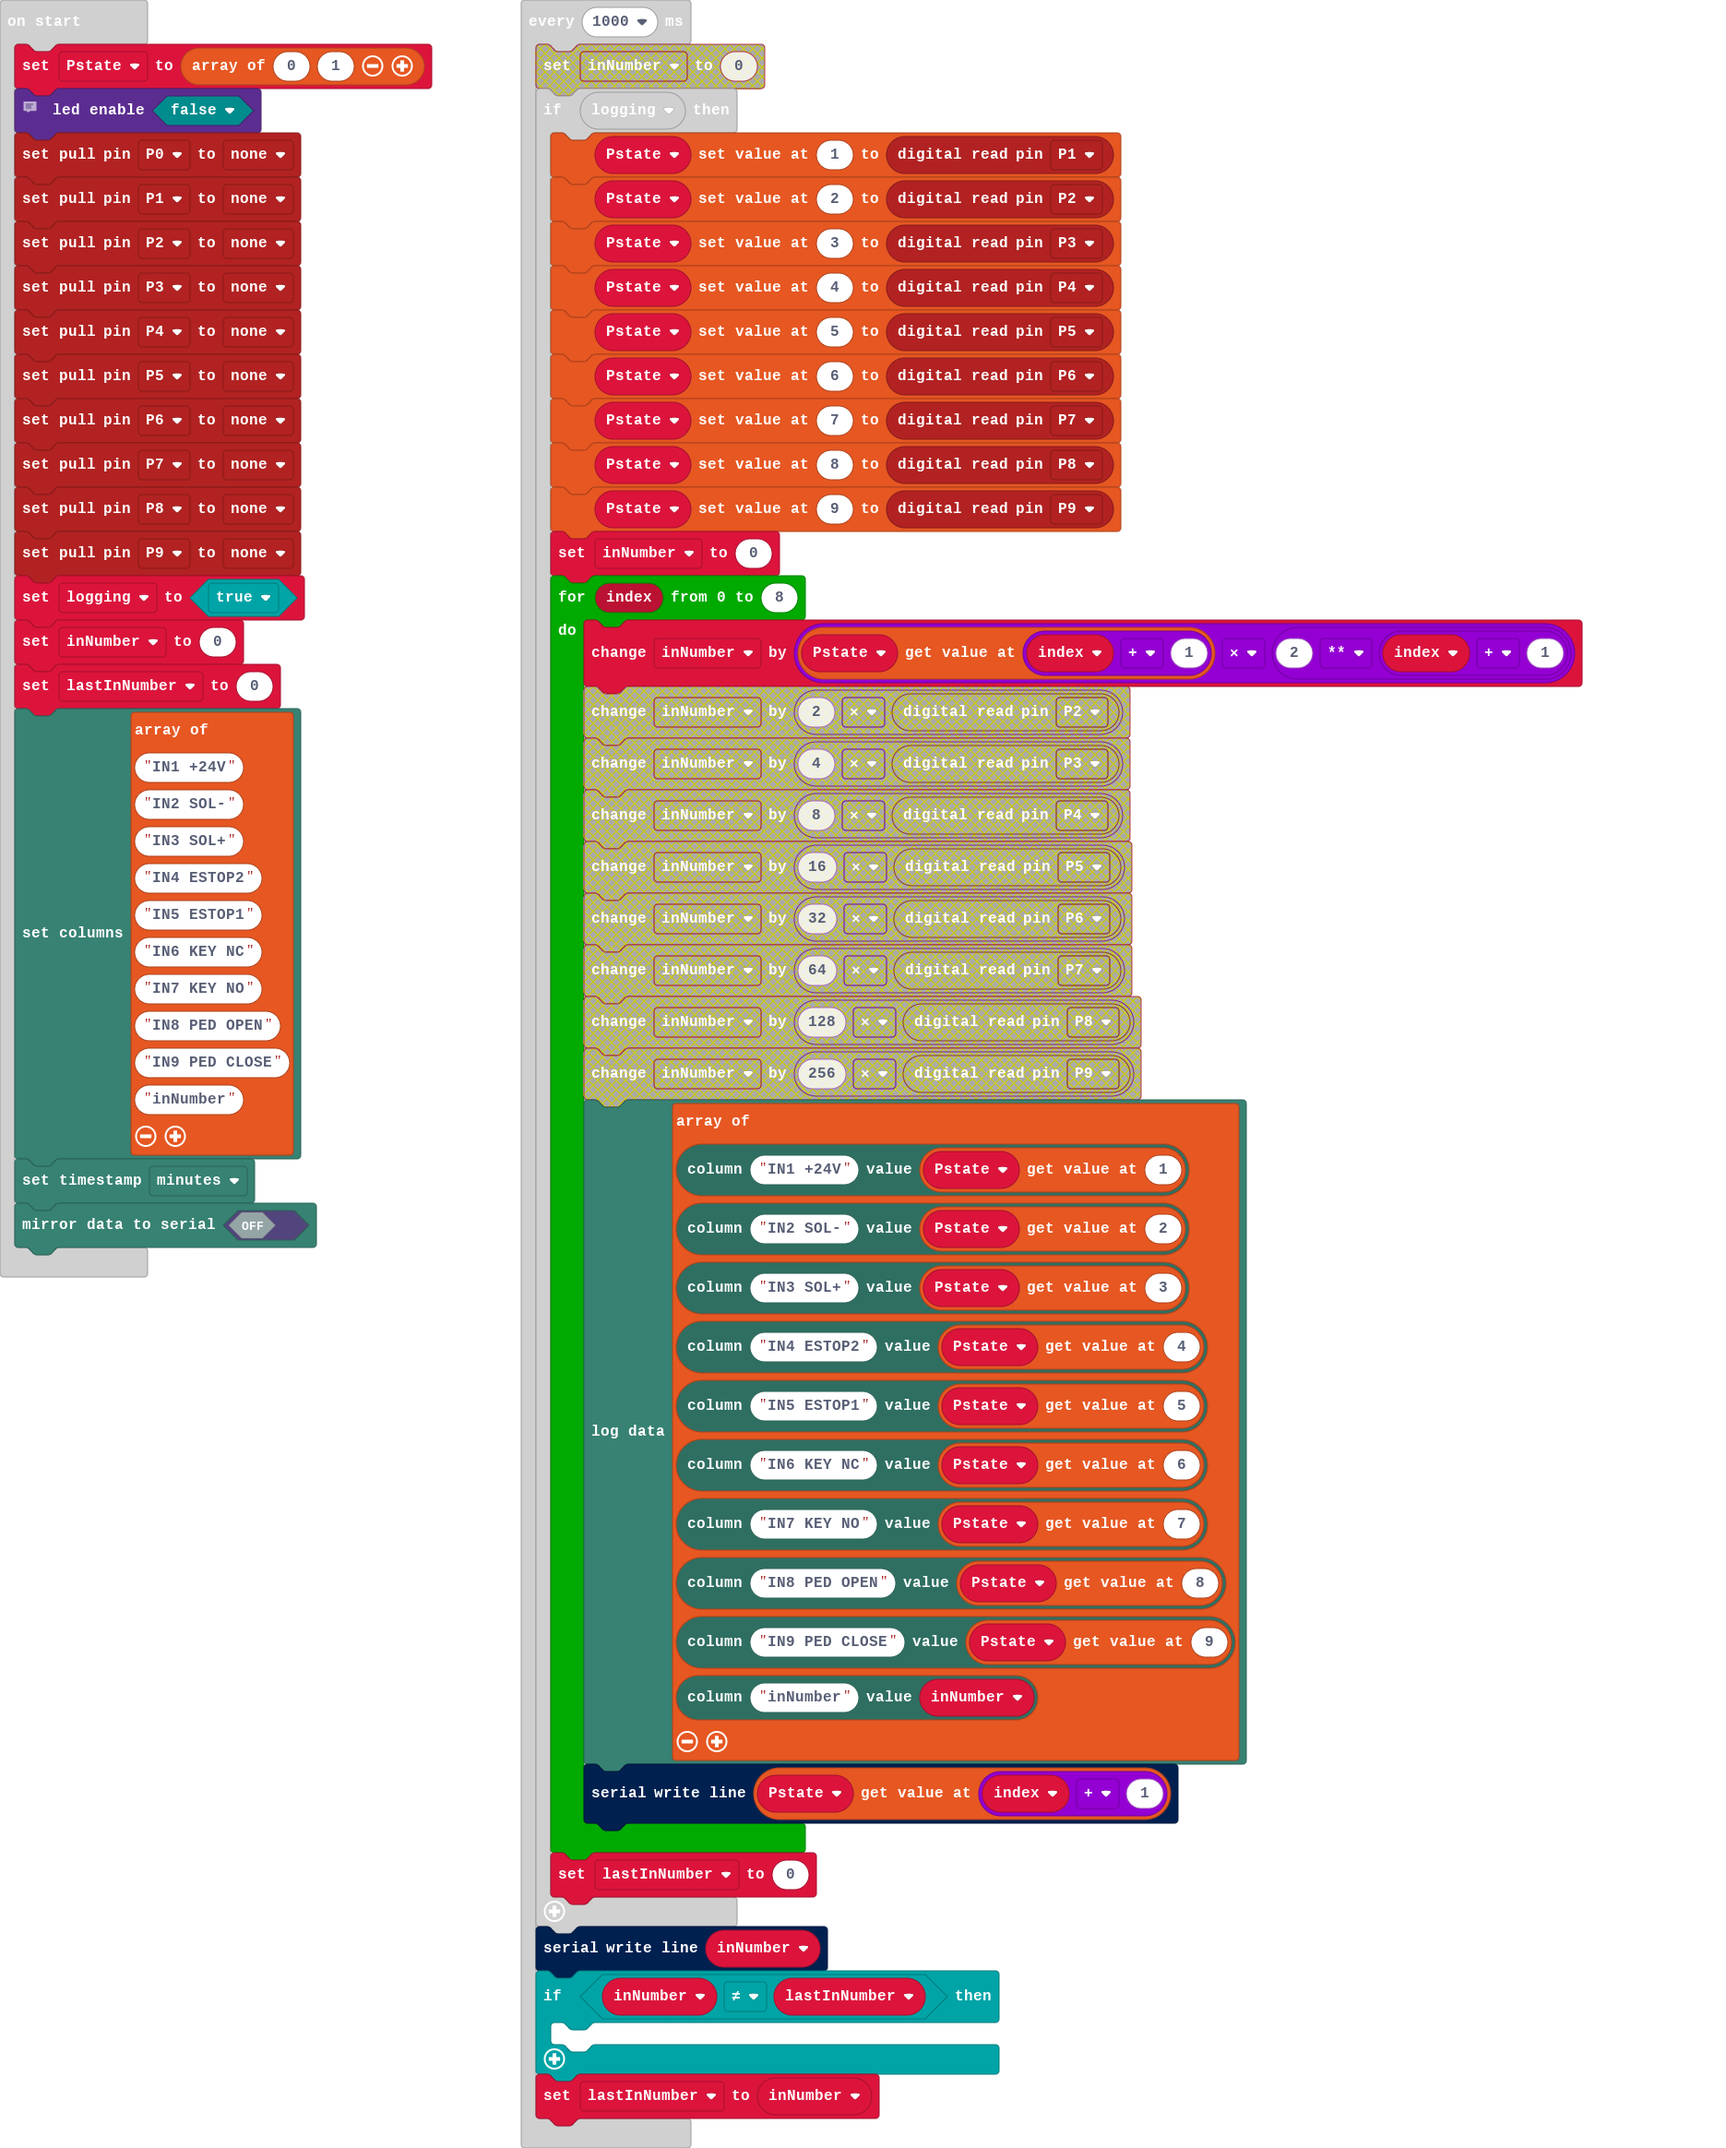
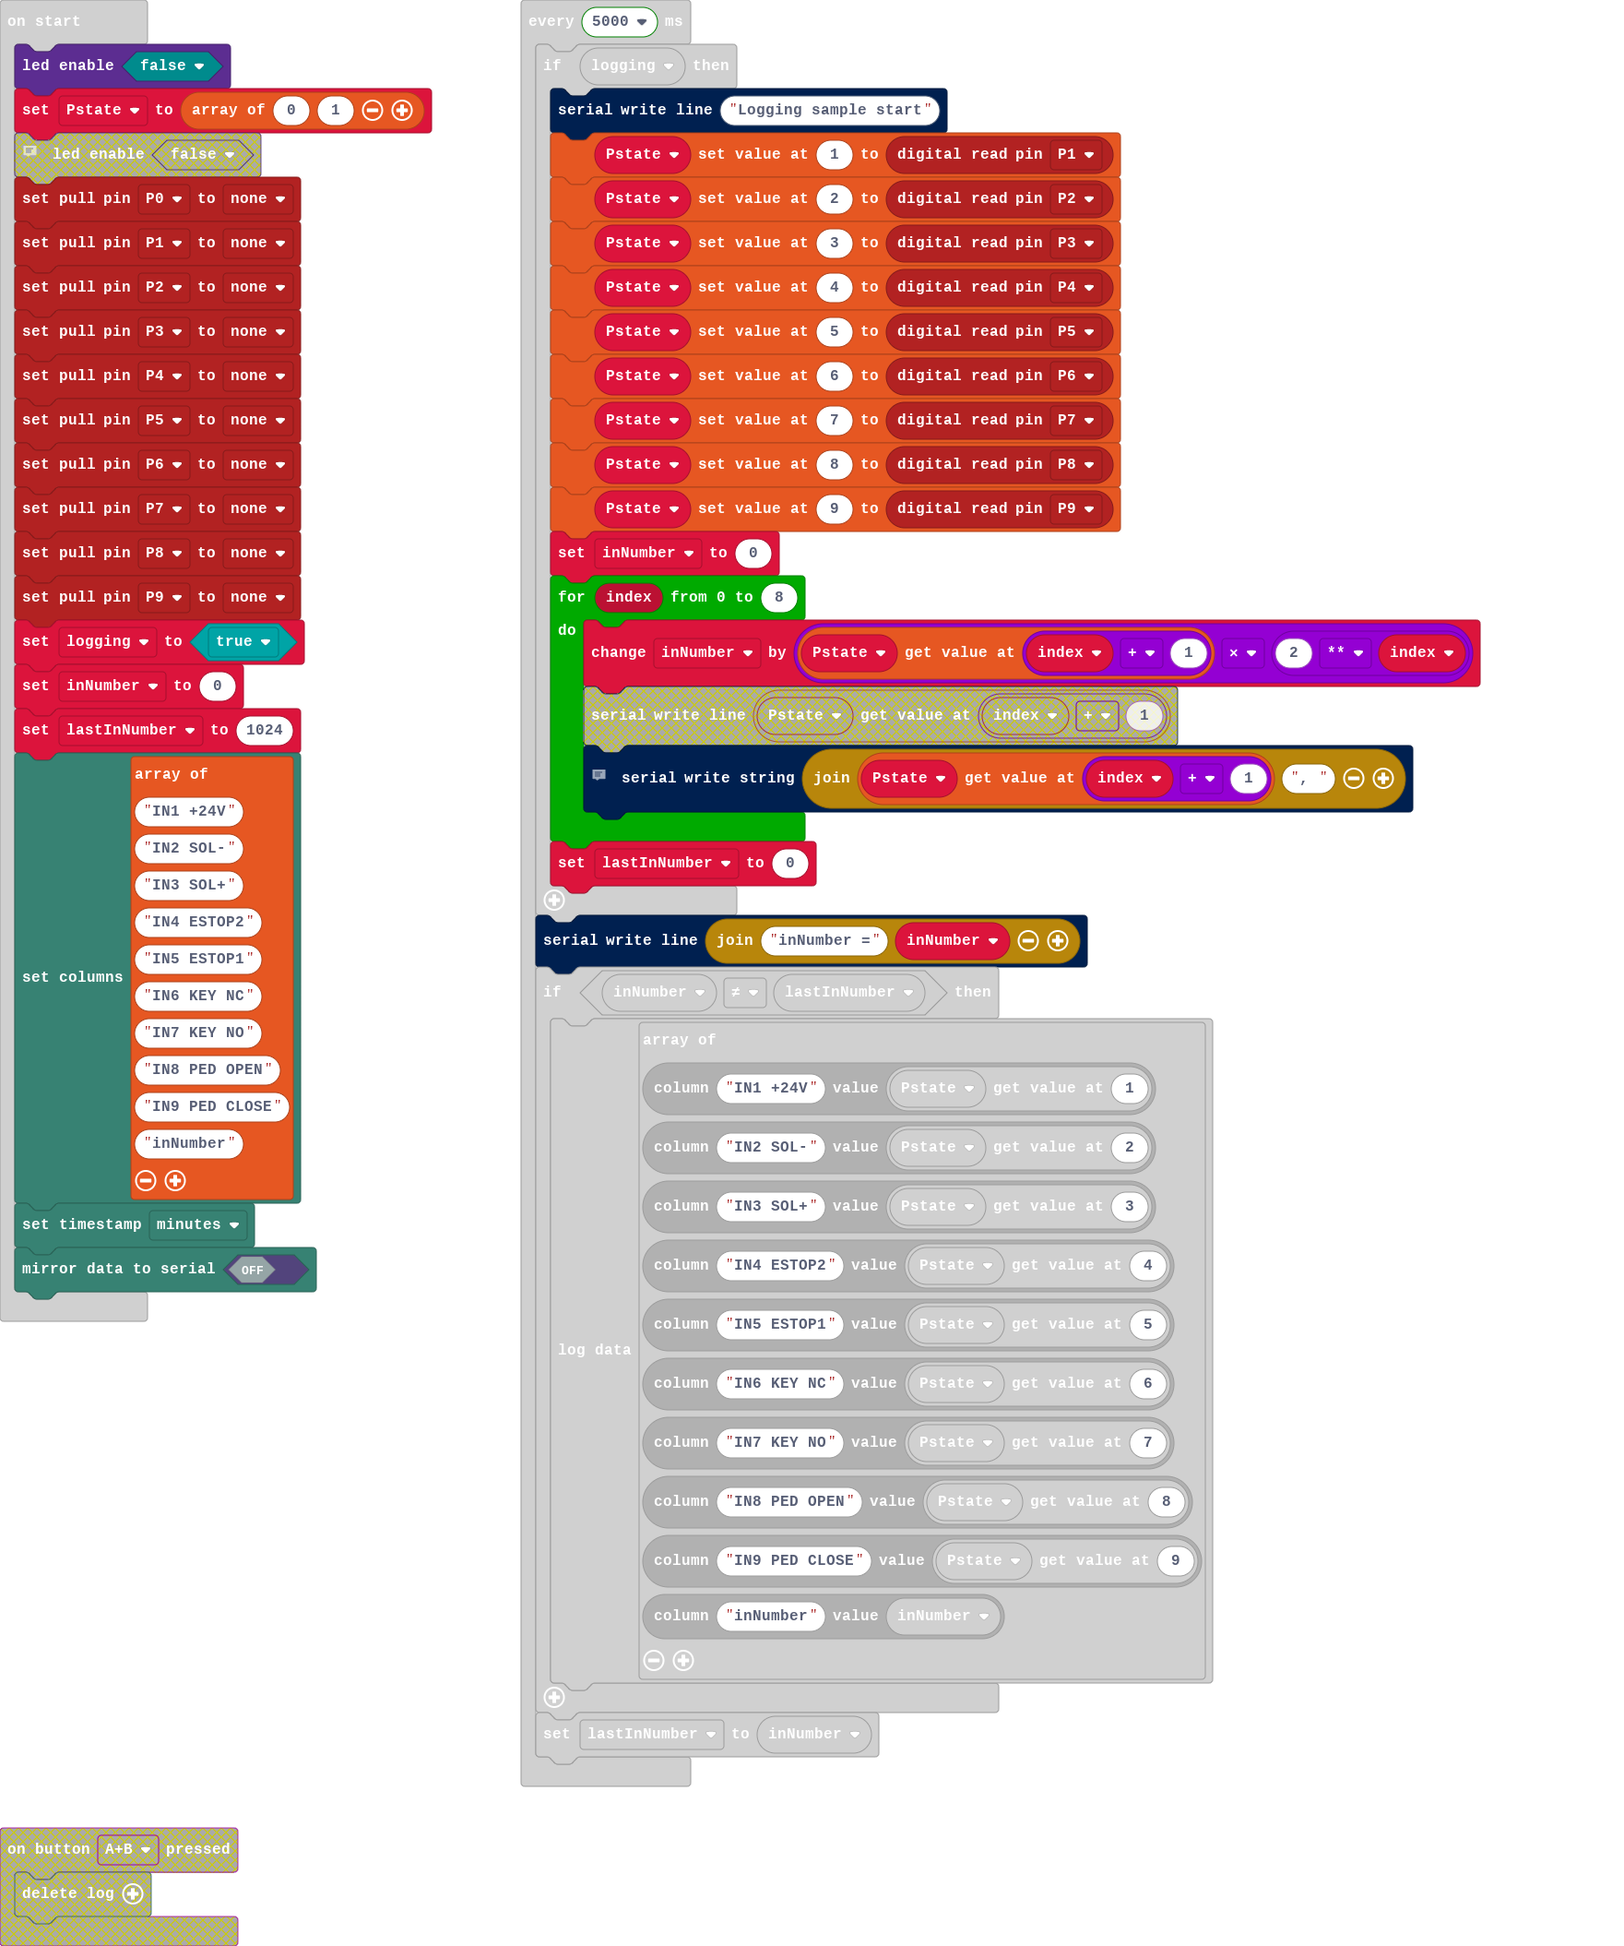
decoding works, can't use buttons though

diff --git a/main.ts b/main.ts
@@ -1,13 +1,9 @@
 datalogger.onLogFull(function () {
     logging = false
 })
-input.onButtonPressed(Button.AB, function () {
-    datalogger.deleteLog()
-})
 let logging = false
-let Pstate = [0, 1]
-// Important! display must be disabled to use P3, 4, 6 7 as digital inputs!
 led.enable(false)
+let Pstate = [0, 1]
 pins.setPull(DigitalPin.P0, PinPullMode.PullNone)
 pins.setPull(DigitalPin.P1, PinPullMode.PullNone)
 pins.setPull(DigitalPin.P2, PinPullMode.PullNone)
@@ -20,7 +16,7 @@ pins.setPull(DigitalPin.P8, PinPullMode.PullNone)
 pins.setPull(DigitalPin.P9, PinPullMode.PullNone)
 logging = true
 let inNumber = 0
-let lastInNumber = 0
+let lastInNumber = 1024
 datalogger.setColumns([
 "IN1 +24V",
 "IN2 SOL-",
@@ -35,8 +31,9 @@ datalogger.setColumns([
 ])
 datalogger.includeTimestamp(FlashLogTimeStampFormat.Minutes)
 datalogger.mirrorToSerial(false)
-loops.everyInterval(1000, function () {
+loops.everyInterval(5000, function () {
     if (logging) {
+        serial.writeLine("Logging sample start")
         Pstate[1] = pins.digitalReadPin(DigitalPin.P1)
         Pstate[2] = pins.digitalReadPin(DigitalPin.P2)
         Pstate[3] = pins.digitalReadPin(DigitalPin.P3)
@@ -48,12 +45,13 @@ loops.everyInterval(1000, function () {
         Pstate[9] = pins.digitalReadPin(DigitalPin.P9)
         inNumber = 0
         for (let index = 0; index <= 8; index++) {
-            inNumber += Pstate[index + 1] * 2 ** (index + 1)
-            serial.writeLine("" + (Pstate[index + 1]))
+            inNumber += Pstate[index + 1] * 2 ** index
+            // debug
+            serial.writeString("" + Pstate[index + 1] + ", ")
         }
         lastInNumber = 0
     }
-    serial.writeLine("" + (inNumber))
+    serial.writeLine("inNumber =" + inNumber)
     if (inNumber != lastInNumber) {
         datalogger.logData([
         datalogger.createCV("IN1 +24V", Pstate[1]),
